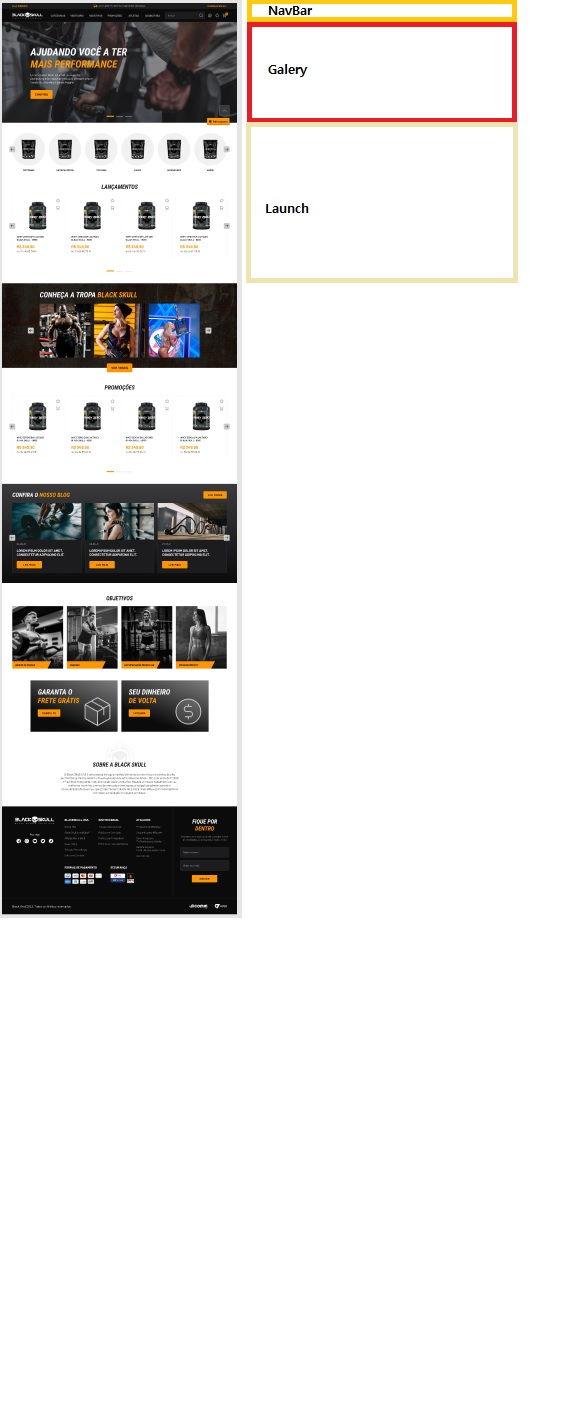
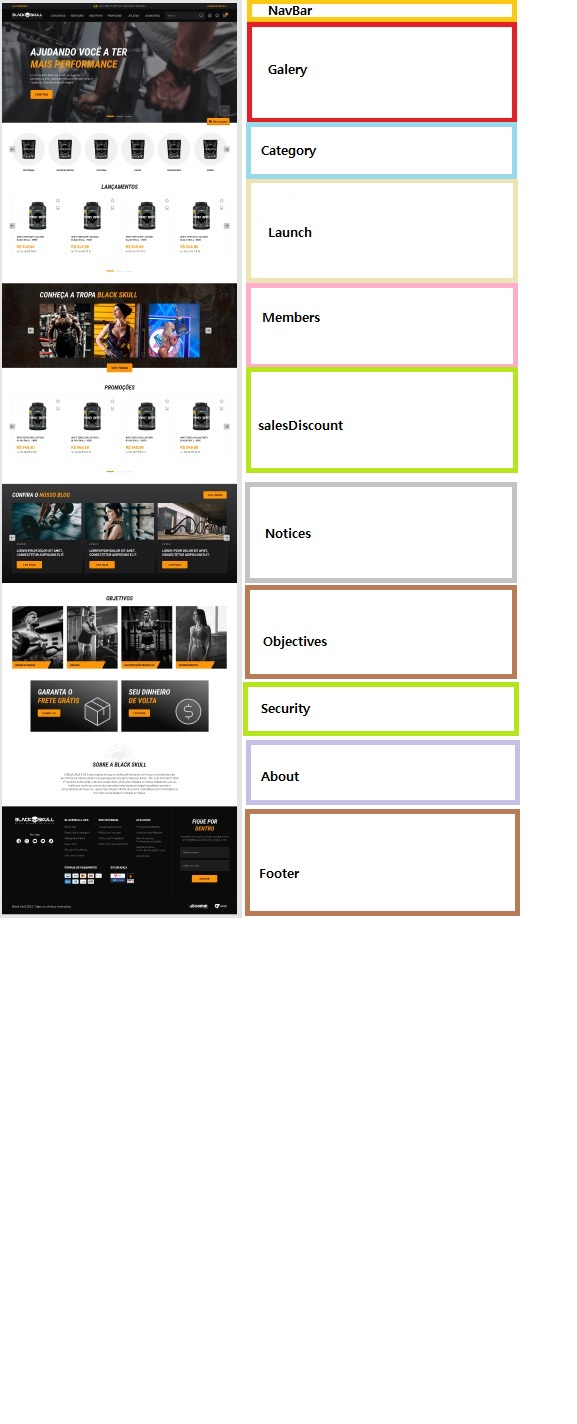
feat: Component Members pre-styled

Changed region(s): [[0.4055, 0.0618, 0.9047, 0.6489], [0.4055, 0.0927, 0.4367, 0.1236]]

diff --git a/src/components/Members/styles.js b/src/components/Members/styles.js
@@ -1,0 +1,59 @@
+import styled from "styled-components";
+
+export const View = styled.div`
+    background-color: var(--black);
+    height: 700px;
+
+    img{
+        width: 430px;
+        height: 460px;
+
+        margin: 1.5rem 0;
+    }
+`
+
+export const H2 = styled.h2`
+    margin-top: 2.4rem;
+
+    font-size: 3.8rem;
+    font-style: italic;
+
+    text-transform: uppercase;
+    text-align: left;
+
+    max-width: 1000px;
+    color: var(--white);
+
+    span{
+        color: var(--orange1);
+    }
+`
+
+export const Button = styled.button`
+    background-color: var(--orange1);
+    color: var(--black);
+
+    width: 140px;
+    height: 48px;
+    
+    position: relative;
+    top: -60px;
+
+    border: none;
+    border-radius: 4px;
+
+    padding: 14px 24px;
+    margin: 3.1rem 0;
+
+    box-sizing: content-box;
+
+    font-size: 1.3rem; 
+    font-weight: 700;
+    text-transform: uppercase;
+    
+    letter-spacing: 0.08em;
+
+    :hover{
+        background-color: var(--orange2);
+    }
+`

diff --git a/src/components/Members/index.js b/src/components/Members/index.js
@@ -1,0 +1,21 @@
+import { Button, H2, View } from "./styles"
+import { Container } from "../../styles/global"
+import img1 from "../../assets/members-img1.png"
+import img2 from "../../assets/members-img2.png"
+import img3 from "../../assets/members-img3.png"
+
+export const Members = () =>{
+    return (
+        <View>
+            <Container width="1300px">
+                <H2>Conheça a tropa <span>Black Skull</span></H2>
+                <Container direction={"row"} gap={".8rem"}>
+                    <img src={img1} alt="foto de atleta de musculação"/>
+                    <img src={img2} alt="foto de atleta de musculação"/>
+                    <img src={img3} alt="foto de atleta de musculação"/>
+                </Container>
+            </Container>
+            <Button>Ver todos</Button>
+        </View>
+    )
+}

diff --git a/src/components/Navbar/index.js b/src/components/Navbar/index.js
@@ -30,7 +30,7 @@ export const Navbar = () => {
                     <li>Assinatura</li>
                     <li>
                         <input placeholder="Buscar"/>
-                        <label><BiSearch/></label>
+                        <BiSearch className="icon-search"/>
                     </li>
                     <li><BiUserCircle className="icon"/></li>
                     <li><AiOutlineStar className="icon"/></li>

diff --git a/src/Wicomm/index.js b/src/Wicomm/index.js
@@ -1,5 +1,6 @@
 import { Category } from "../components/Category"
 import { Launch } from "../components/Launch"
+import { Members } from "../components/Members"
 import { Navbar } from "../components/Navbar"
 import { SlideMain } from "../components/SlideMain"
 
@@ -10,6 +11,7 @@ const Wicomm = () => {
             <SlideMain/>
             <Category/>
             <Launch/>
+            <Members/>
         </>
     )
 }

diff --git a/src/components/Navbar/styles.css b/src/components/Navbar/styles.css
@@ -32,12 +32,19 @@ li {
     height: 40px;
     margin: 0;
     padding: 0;
-    cursor: pointer;
-
-    
+    cursor: pointer;    
 }
 .icon:hover{
-        color: var(--orange1);
+    color: var(--orange1);
+}
+
+.icon-search{
+    width: 40px;
+    height: 40px;
+
+    position: relative;
+    left: -50px;
+    top: 15px;
 }
 
 input{

diff --git a/src/components/CardCategory/styles.js b/src/components/CardCategory/styles.js
@@ -10,4 +10,8 @@ export const CardContent = styled.div`
         text-transform: uppercase;
         margin-top: 1.8rem;
     }
+
+    :hover{
+        cursor: pointer;
+    }
 `

diff --git a/src/components/CardCategory/styles.css b/src/components/CardCategory/styles.css
@@ -9,6 +9,10 @@
     border-radius: 50%;
 }
 
+.card-circle:hover{
+    border: solid var(--orange1) 1px;
+}
+
 
 #img{
     height: 65%;
